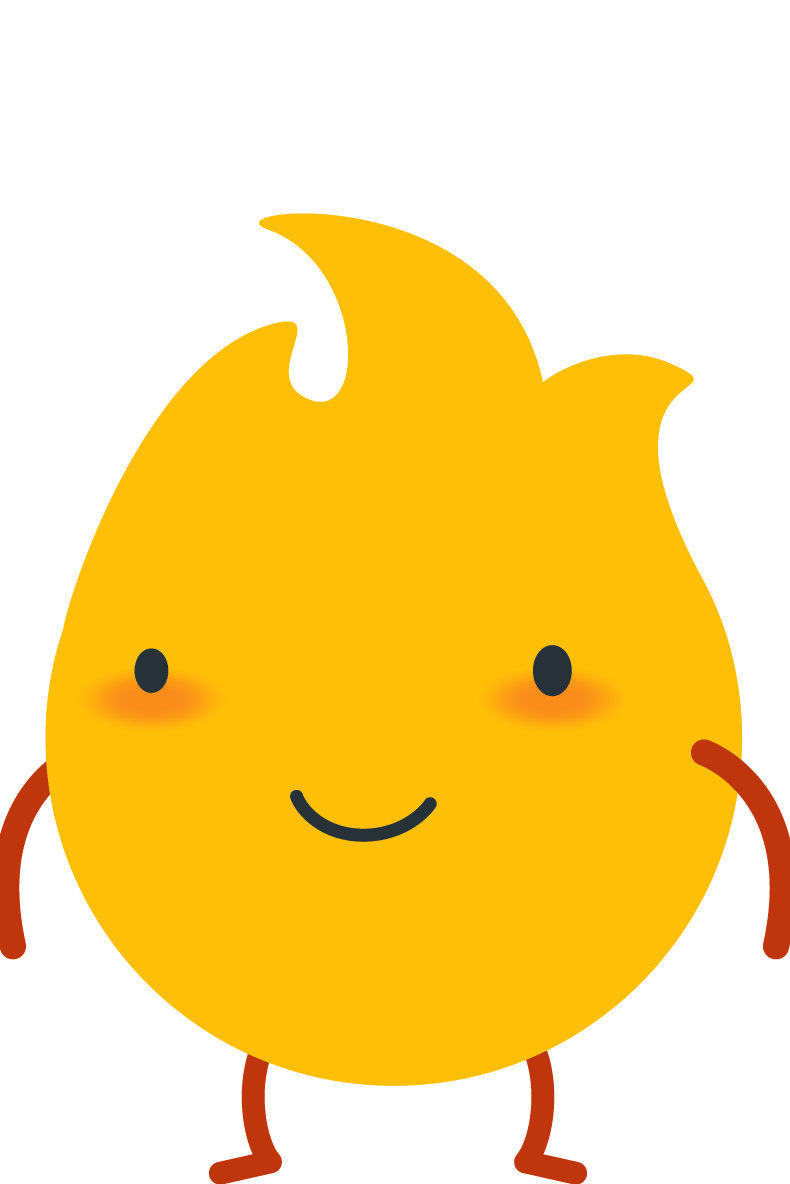
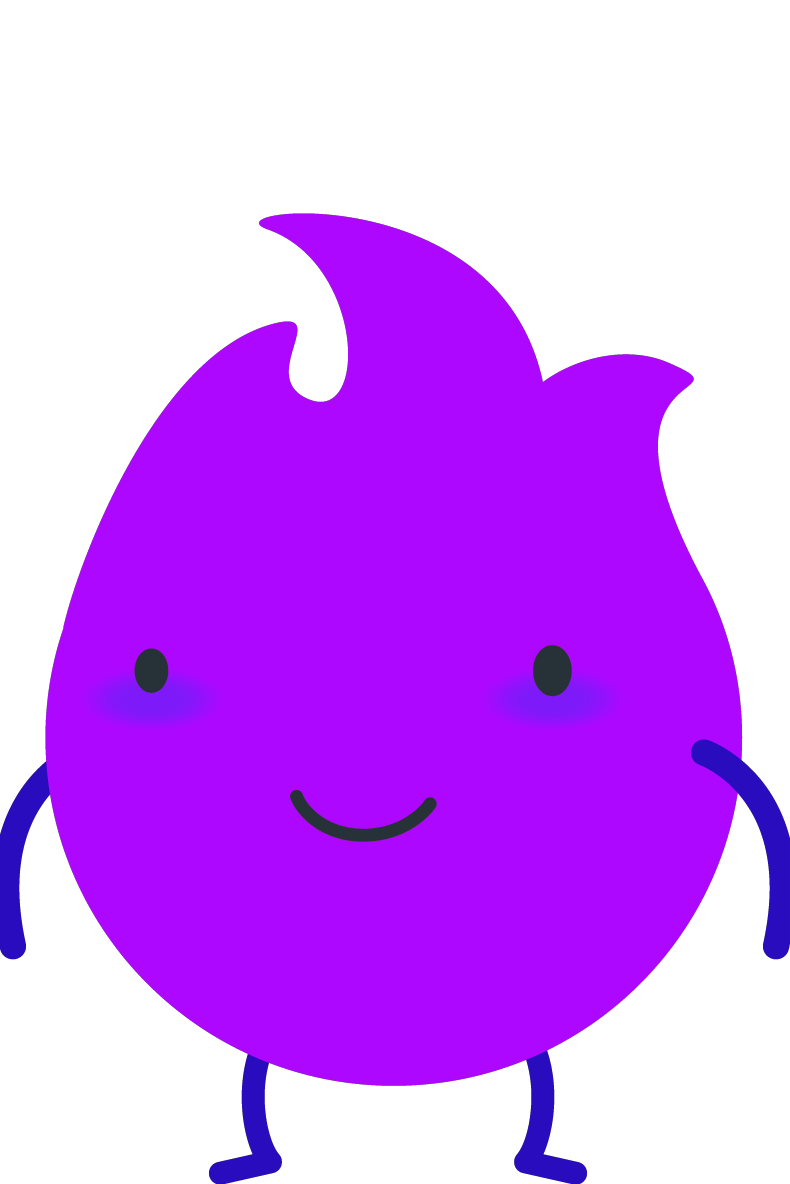
add sparky purple

diff --git a/lib/game/objects/hero.dart b/lib/game/objects/hero.dart
@@ -21,7 +21,18 @@ import 'package:jueguito2/game/utils.dart';
 import 'package:jueguito2/main.dart';
 import 'package:sensors_plus/sensors_plus.dart';
 
-enum HeroState { jump, fall, dead, left, right, center, rocket, mega, centerPurple, hat }
+enum HeroState {
+  jump,
+  fall,
+  dead,
+  left,
+  right,
+  center,
+  rocket,
+  mega,
+  centerPurple,
+  hat
+}
 
 enum State { jump, fall }
 
@@ -154,15 +165,15 @@ class MyHero extends BodyComponent<MyGame>
     );
 
     centerPurpleComponent = SpriteComponent(
-      sprite:
-      Sprite(await Flame.images.load('game/${character.name}_center_purple.png')),
+      sprite: Sprite(
+          await Flame.images.load('game/${character.name}_center_purple.png')),
       size: size,
       anchor: Anchor.center,
     );
 
     hatComponent = SpriteComponent(
-      sprite:
-      Sprite(await Flame.images.load('game/${character.name}_hat_center.png')),
+      sprite: Sprite(
+          await Flame.images.load('game/${character.name}_hat_center.png')),
       size: size,
       anchor: Anchor.center,
     );
@@ -236,7 +247,7 @@ class MyHero extends BodyComponent<MyGame>
     gameRef.bullets.value += 4;
   }
 
-  void takeHat(){
+  void takeHat() {
     if (state == HeroState.dead) return;
     hasHat = true;
     state = HeroState.hat;
@@ -270,7 +281,7 @@ class MyHero extends BodyComponent<MyGame>
       velocity.y = -7.5;
     }
 
-    if(hasHat){
+    if (hasHat) {
       durationHat += dt;
       if (durationHat >= _durationJetpack) {
         hasHat = false;
@@ -342,9 +353,9 @@ class MyHero extends BodyComponent<MyGame>
       _setComponent(rocketComponent);
     } else if (state == HeroState.mega) {
       _setComponent(megaComponent);
-    }else if(state == HeroState.centerPurple){
+    } else if (state == HeroState.centerPurple) {
       _setComponent(centerPurpleComponent);
-    } else if(state == HeroState.hat){
+    } else if (state == HeroState.hat) {
       _setComponent(hatComponent);
     }
   }
@@ -413,8 +424,10 @@ class MyHero extends BodyComponent<MyGame>
   }
 
   void setFrozen(double duration) {
+    if (hasFrozen) return;
+
     // Inmovilizar al héroe por la duración especificada en segundos
-    if(hasBubbleShield){
+    if (hasBubbleShield) {
       hasBubbleShield = false;
       return;
     }
@@ -424,6 +437,7 @@ class MyHero extends BodyComponent<MyGame>
   }
 
   void setBurst(double duration) {
+    if (hasBurst) return;
     hasBurst = true;
     add(burstComponent);
     burstDuration = duration;
@@ -431,17 +445,6 @@ class MyHero extends BodyComponent<MyGame>
 
   @override
   void beginContact(Object other, Contact contact) {
-    if (other is HearthEnemy) {
-      other.destroy = true;
-      {
-        /*
-        if (hasBubbleShield) {
-        other.destroy = true
-        }
-        */
-      }
-      hit();
-    }
     if (other is AntiValues) {
       other.destroy = true;
       final AntiValuesType type = other.type;
@@ -452,6 +455,7 @@ class MyHero extends BodyComponent<MyGame>
       other.destroy = true;
       if (hasJetpack) return;
       if (hasHat) return;
+      if (isMega()) return;
       if (other.type == AntiValuesTypeStatic.injustice &&
           !hasAppliedFrozenEffect) {
         setFrozen(3.0);
@@ -460,7 +464,6 @@ class MyHero extends BodyComponent<MyGame>
       }
 
       if (other.type == AntiValuesTypeStatic.hate) {
-
         state = HeroState.centerPurple;
         setBurst(3.0);
       }
